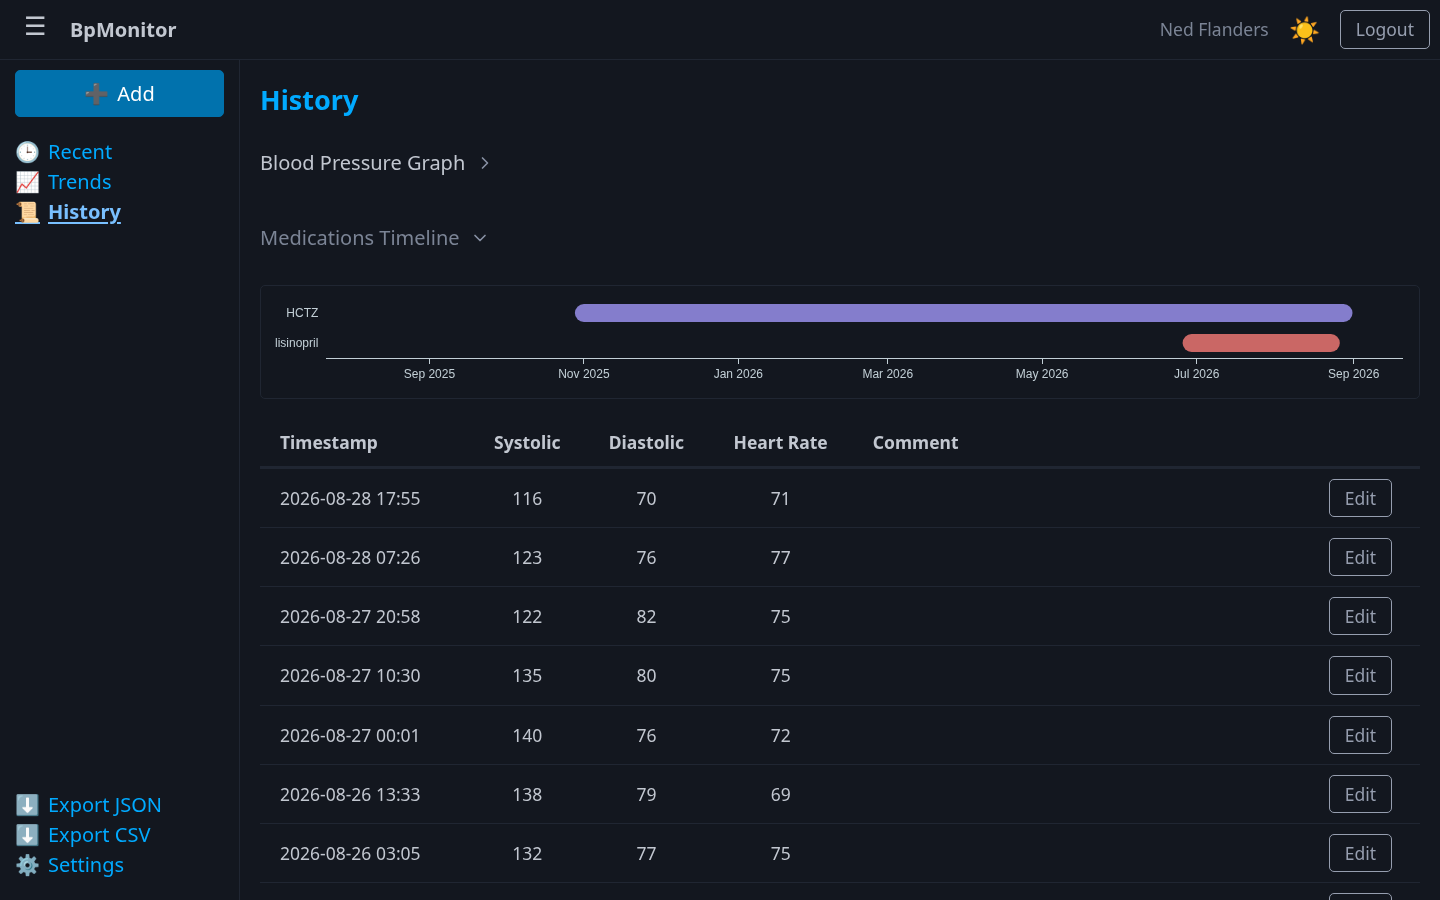
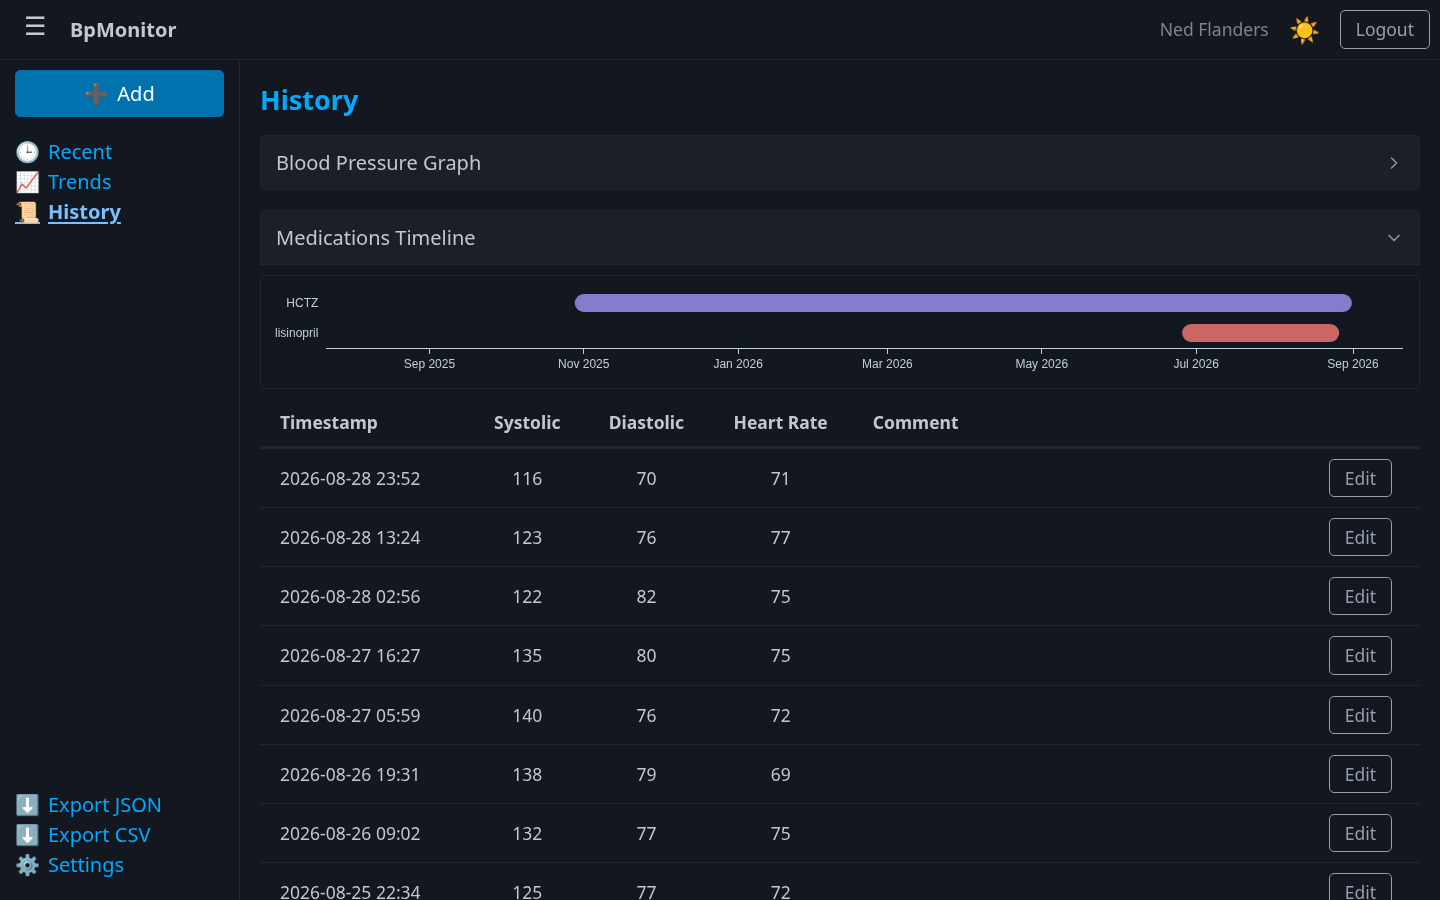
💄 style(collapsible): give collapsible sections a clickable header-bar look
Every <details> summary (History's chart, Settings sections, Medications
Timeline, Recent's readings list) was just muted text with a small chevron
that didn't read as a control. Give them all a shared tinted header bar with
hover/focus feedback and a right-aligned rotating chevron; also give
History's chart toggle a persist key like its siblings so it remembers its
open state across reloads.

diff --git a/code/BpMonitor.Web/wwwroot/app.css b/code/BpMonitor.Web/wwwroot/app.css
@@ -188,12 +188,66 @@ nav a[aria-current="page"] {
   z-index: 200;
 }
 
-.chart-toggle {
-  min-height: 2.75rem;
+/* ── Collapsible sections ──────────────────────────────────────────────────
+   Shared header-bar treatment for every <details data-persist-key="..."> in
+   the app (History's chart toggle, Settings sections, Medications Timeline,
+   Recent's readings list) — see wwwroot/details-memory.js for persistence.
+   Pico only styles the marker/chevron; without this the summary is just
+   muted text with no visual sign it's clickable. */
+.collapsible {
+  margin-bottom: 0.5rem;
+}
+
+.collapsible > summary {
   display: flex;
   align-items: center;
+  gap: 0.5rem;
+  min-height: 2.75rem;
+  padding: 0.4rem 0.75rem;
+  border: 1px solid var(--pico-muted-border-color);
+  border-radius: var(--pico-border-radius);
+  background: var(--pico-card-sectioning-background-color);
+  color: var(--pico-color);
   cursor: pointer;
   user-select: none;
+  transition:
+    background-color var(--pico-transition),
+    color var(--pico-transition);
+}
+
+/* Pico floats the chevron right, which a flex summary ignores — it ends up
+   hugging the title instead. Push it to the end of the flex row instead. */
+.collapsible > summary::after {
+  margin-inline-start: auto;
+  float: none;
+}
+
+.collapsible > summary:hover {
+  background: var(--pico-secondary-background);
+}
+
+/* Pico renders an *open* summary in the muted color; that reads as "less
+   active" right when the section is expanded. Keep both states equally
+   readable — (0,2,1) specificity beats Pico's details[open]>summary rule. */
+.collapsible[open] > summary:not([role]):not(:focus) {
+  color: var(--pico-color);
+}
+
+.collapsible > summary:focus {
+  outline: 0;
+}
+
+.collapsible > summary:focus-visible {
+  outline: var(--pico-outline-width) solid var(--pico-primary-focus);
+  outline-offset: 2px;
+}
+
+/* Flattened bottom corners while open, so the bar reads as attached to its
+   content rather than floating above it. */
+.collapsible[open] > summary {
+  margin-bottom: 0.5rem;
+  border-bottom-left-radius: 0;
+  border-bottom-right-radius: 0;
 }
 
 :root {
@@ -273,15 +327,10 @@ g.errorbars path.yerror {
   color: var(--pico-muted-color);
 }
 
-/* Collapsible settings sections (e.g. Medications) — remembered via wwwroot/details-memory.js. */
+/* Collapsible settings sections (e.g. Medications) — remembered via wwwroot/details-memory.js.
+   Header-bar styling itself is shared: see .collapsible above. */
 .settings-section {
   margin-top: 0.75rem;
-}
-
-.settings-section summary {
-  cursor: pointer;
-  user-select: none;
-  padding: 0.25rem 0;
 }
 
 .settings-section summary h2 {
@@ -408,16 +457,8 @@ g.errorbars path.yerror {
     justify-content: center;
   }
 
-  /* Settings sections get the same 2.75rem tap-target treatment already used by
-     .medications-timeline and .recent-readings; .settings-section never got it. */
   .settings-section {
     margin-top: 1.25rem;
-  }
-
-  .settings-section summary {
-    min-height: 2.75rem;
-    display: flex;
-    align-items: center;
   }
 
   .dense-page h1 {
@@ -756,17 +797,10 @@ form.inline button,
 
 /* ── Medications Timeline (Wegier et al. 2021 Fig. 5) ──────────────────────
    Collapsible <details> below the BP chart on /recent and /history — collapsed
-   by default, remembered across loads via wwwroot/details-memory.js. */
+   by default, remembered across loads via wwwroot/details-memory.js.
+   Header-bar styling itself is shared: see .collapsible above. */
 .medications-timeline {
   margin-top: 1rem;
-}
-
-.medications-timeline summary {
-  cursor: pointer;
-  user-select: none;
-  min-height: 2.75rem;
-  display: flex;
-  align-items: center;
 }
 
 /* Overrides `.chart`'s fixed --chart-height: the timeline's own height is
@@ -894,17 +928,9 @@ form.inline button,
 /* Collapsible readings list below the chart on /recent, filtered to the visible
    x-range by recent-scrubber.js's `plotly_relayout` handler (same data-x/out-of-range
    mechanism as the value strip above). Collapsed by default, remembered via
-   wwwroot/details-memory.js. */
+   wwwroot/details-memory.js. Header-bar styling itself is shared: see .collapsible above. */
 .recent-readings {
   margin-top: 1rem;
-}
-
-.recent-readings summary {
-  cursor: pointer;
-  user-select: none;
-  min-height: 2.75rem;
-  display: flex;
-  align-items: center;
 }
 
 .recent-readings-table tr.out-of-range {

diff --git a/CHANGELOG.md b/CHANGELOG.md
@@ -14,6 +14,7 @@ and this project adheres to [Semantic Versioning](https://semver.org/spec/v2.0.0
 ### Changed
 
 - Settings and Family members are much more compact, especially on desktop: tighter headings, form fields, table rows, and buttons.
+- Collapsible sections (History's chart, Settings, Medications Timeline, Recent's readings list) now look like clickable header bars instead of plain muted text, and History's chart now remembers whether you left it open or closed.
 
 ### Fixed
 
